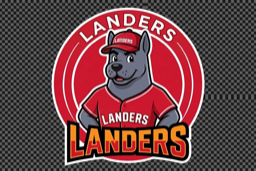
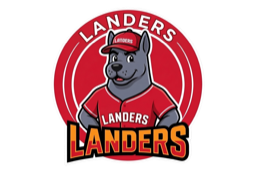
팀 로고 수정

diff --git a/ios/mobile/BaseHaptic/Screens/HomeScreen.swift b/ios/mobile/BaseHaptic/Screens/HomeScreen.swift
@@ -43,7 +43,7 @@ struct HomeScreen: View {
         VStack(alignment: .leading, spacing: 0) {
             HStack {
                 HStack(spacing: 12) {
-                    TeamLogo(team: selectedTeam, size: 56)
+                    TeamLogo(team: selectedTeam, size: 92)
                     VStack(alignment: .leading) {
                         Text("BaseHaptic Live")
                             .font(.system(size: 12))
@@ -228,11 +228,11 @@ private struct GameCard: View {
 
                 // Score rows
                 VStack(spacing: 12) {
-                    TeamScoreRow(team: game.awayTeamId, teamName: game.awayTeam, score: game.awayScore,
+                    TeamScoreRow(team: game.awayTeamId, teamName: game.awayTeamId.teamName, score: game.awayScore,
                                  isScheduled: isNotStartedStatus(game.status),
                                  isWinner: game.status == .finished && game.awayScore > game.homeScore,
                                  isMyTeam: game.isMyTeam)
-                    TeamScoreRow(team: game.homeTeamId, teamName: game.homeTeam, score: game.homeScore,
+                    TeamScoreRow(team: game.homeTeamId, teamName: game.homeTeamId.teamName, score: game.homeScore,
                                  isScheduled: isNotStartedStatus(game.status),
                                  isWinner: game.status == .finished && game.homeScore > game.awayScore,
                                  isMyTeam: game.isMyTeam)
@@ -327,7 +327,7 @@ private struct TeamScoreRow: View {
     var body: some View {
         HStack {
             HStack(spacing: 12) {
-                TeamLogo(team: team, size: 32)
+                TeamLogo(team: team, size: 56)
                 Text(teamName)
                     .font(.system(size: isMyTeam ? 18 : 16, weight: .medium))
                     .foregroundColor(isWinner ? .white : (isScheduled ? .white : AppColors.gray500))
@@ -355,18 +355,18 @@ private struct UpcomingGameCard: View {
                 .foregroundColor(AppColors.gray400)
 
             HStack {
-                Text(isMyTeamHome ? game.homeTeam : game.awayTeam)
+                Text(isMyTeamHome ? game.homeTeamId.teamName : game.awayTeamId.teamName)
                     .font(.system(size: 16, weight: .medium))
                     .foregroundColor(.white)
                 Text(" vs ")
                     .font(.system(size: 14))
                     .foregroundColor(AppColors.gray500)
-                Text(isMyTeamHome ? game.awayTeam : game.homeTeam)
+                Text(isMyTeamHome ? game.awayTeamId.teamName : game.homeTeamId.teamName)
                     .font(.system(size: 16, weight: .medium))
                     .foregroundColor(.white)
             }
 
-            Text(isMyTeamHome ? "\(game.homeTeam) 홈경기" : "\(game.homeTeam) 원정경기")
+            Text(isMyTeamHome ? "\(game.homeTeamId.teamName) 홈경기" : "\(game.homeTeamId.teamName) 원정경기")
                 .font(.system(size: 12))
                 .foregroundColor(AppColors.gray500)
         }

diff --git a/apps/mobile/app/src/main/java/com/basehaptic/mobile/ui/screens/HomeScreen.kt b/apps/mobile/app/src/main/java/com/basehaptic/mobile/ui/screens/HomeScreen.kt
@@ -189,7 +189,7 @@ fun HomeScreen(
                         verticalAlignment = Alignment.CenterVertically
                     ) {
                         Row(verticalAlignment = Alignment.CenterVertically) {
-                            TeamLogo(team = selectedTeam, size = 56.dp)
+                            TeamLogo(team = selectedTeam, size = 92.dp)
                             Spacer(modifier = Modifier.width(12.dp))
                             Column {
                                 Text(
@@ -391,13 +391,13 @@ private fun UpcomingGameCard(
 ) {
     val game = upcoming.game
     val isMyTeamHome = game.homeTeamId == selectedTeam
-    val myTeamName = if (isMyTeamHome) game.homeTeam else game.awayTeam
-    val opponentTeamName = if (isMyTeamHome) game.awayTeam else game.homeTeam
+    val myTeamName = if (isMyTeamHome) game.homeTeamId.teamName else game.awayTeamId.teamName
+    val opponentTeamName = if (isMyTeamHome) game.awayTeamId.teamName else game.homeTeamId.teamName
     val dateTimeText = formatUpcomingDateTime(upcoming.gameDate, game.time)
     val venueText = if (isMyTeamHome) {
-        "${game.homeTeam} 홈경기"
+        "${game.homeTeamId.teamName} 홈경기"
     } else {
-        "${game.homeTeam} 원정경기"
+        "${game.homeTeamId.teamName} 원정경기"
     }
 
     Surface(
@@ -644,7 +644,7 @@ private fun GameCard(
                 Column(verticalArrangement = Arrangement.spacedBy(12.dp)) {
                     TeamScoreRow(
                         team = game.awayTeamId,
-                        teamName = game.awayTeam,
+                        teamName = game.awayTeamId.teamName,
                         score = game.awayScore,
                         pitcher = game.awayPitcher,
                         isScheduled = isNotStartedStatus(game.status),
@@ -654,7 +654,7 @@ private fun GameCard(
 
                     TeamScoreRow(
                         team = game.homeTeamId,
-                        teamName = game.homeTeam,
+                        teamName = game.homeTeamId.teamName,
                         score = game.homeScore,
                         pitcher = game.homePitcher,
                         isScheduled = isNotStartedStatus(game.status),
@@ -686,7 +686,7 @@ private fun TeamScoreRow(
             modifier = Modifier.weight(1f),
             verticalAlignment = Alignment.CenterVertically
         ) {
-            TeamLogo(team = team, size = 32.dp)
+            TeamLogo(team = team, size = 56.dp)
             Spacer(modifier = Modifier.width(12.dp))
             Column {
                 Text(

diff --git a/apps/mobile/app/src/main/java/com/basehaptic/mobile/ui/components/TeamLogo.kt b/apps/mobile/app/src/main/java/com/basehaptic/mobile/ui/components/TeamLogo.kt
@@ -40,23 +40,21 @@ fun TeamLogo(
         Team.NONE -> null
     }
 
-    Box(
-        modifier = modifier
-            .size(size)
-            .clip(CircleShape)
-            .background(team.color),
-        contentAlignment = Alignment.Center
-    ) {
-        if (logoResource != null) {
-            Image(
-                painter = painterResource(id = logoResource),
-                contentDescription = "${team.teamName} 로고",
-                modifier = Modifier
-                    .size(size * 0.8f)
-                    .clip(CircleShape),
-                contentScale = ContentScale.Fit
-            )
-        } else {
+    if (logoResource != null) {
+        Image(
+            painter = painterResource(id = logoResource),
+            contentDescription = "${team.teamName} 로고",
+            modifier = modifier.size(size),
+            contentScale = ContentScale.Fit
+        )
+    } else {
+        Box(
+            modifier = modifier
+                .size(size)
+                .clip(CircleShape)
+                .background(team.color),
+            contentAlignment = Alignment.Center
+        ) {
             Text(
                 text = "?",
                 color = Color.White,

diff --git a/ios/mobile/BaseHaptic/Screens/LiveGameScreen.swift b/ios/mobile/BaseHaptic/Screens/LiveGameScreen.swift
@@ -203,9 +203,9 @@ private struct ScoreboardCard: View {
             }
 
             Spacer().frame(height: 14)
-            LiveTeamScoreRow(teamName: state.awayTeam, team: state.awayTeamId, score: state.awayScore)
+            LiveTeamScoreRow(teamName: state.awayTeamId.teamName, team: state.awayTeamId, score: state.awayScore)
             Spacer().frame(height: 10)
-            LiveTeamScoreRow(teamName: state.homeTeam, team: state.homeTeamId, score: state.homeScore)
+            LiveTeamScoreRow(teamName: state.homeTeamId.teamName, team: state.homeTeamId, score: state.homeScore)
 
             Spacer().frame(height: 12)
             HStack(spacing: 8) {
@@ -263,7 +263,7 @@ private struct LiveTeamScoreRow: View {
     var body: some View {
         HStack {
             HStack(spacing: 10) {
-                TeamLogo(team: team, size: 28)
+                TeamLogo(team: team, size: 52)
                 Text(teamName)
                     .font(.system(size: 16, weight: .medium))
                     .foregroundColor(.white)

diff --git a/ios/mobile/BaseHaptic/Components/TeamLogo.swift b/ios/mobile/BaseHaptic/Components/TeamLogo.swift
@@ -6,18 +6,16 @@ struct TeamLogo: View {
     var size: CGFloat = 40
 
     var body: some View {
-        ZStack {
-            Circle()
-                .fill(team.color)
+        if let imageName = teamImageName, UIImage(named: imageName) != nil {
+            Image(imageName)
+                .resizable()
+                .scaledToFit()
                 .frame(width: size, height: size)
-
-            if let imageName = teamImageName, UIImage(named: imageName) != nil {
-                Image(imageName)
-                    .resizable()
-                    .scaledToFit()
-                    .frame(width: size * 0.8, height: size * 0.8)
-                    .clipShape(Circle())
-            } else {
+        } else {
+            ZStack {
+                Circle()
+                    .fill(team.color)
+                    .frame(width: size, height: size)
                 Text(teamInitial)
                     .font(.system(size: size * 0.4, weight: .bold))
                     .foregroundColor(.white)

diff --git a/apps/mobile/app/src/main/java/com/basehaptic/mobile/ui/screens/LiveGameScreen.kt b/apps/mobile/app/src/main/java/com/basehaptic/mobile/ui/screens/LiveGameScreen.kt
@@ -300,13 +300,13 @@ private fun ScoreboardCard(
 
             TeamScoreRow(
                 team = state.awayTeamId,
-                teamName = state.awayTeam,
+                teamName = state.awayTeamId.teamName,
                 score = state.awayScore
             )
             Spacer(modifier = Modifier.height(10.dp))
             TeamScoreRow(
                 team = state.homeTeamId,
-                teamName = state.homeTeam,
+                teamName = state.homeTeamId.teamName,
                 score = state.homeScore
             )
 
@@ -359,7 +359,7 @@ private fun TeamScoreRow(
         verticalAlignment = Alignment.CenterVertically
     ) {
         Row(verticalAlignment = Alignment.CenterVertically) {
-            TeamLogo(team = team, size = 28.dp)
+            TeamLogo(team = team, size = 52.dp)
             Spacer(modifier = Modifier.size(10.dp))
             Text(
                 text = teamName,

diff --git a/ios/mobile/BaseHaptic/Screens/SettingsScreen.swift b/ios/mobile/BaseHaptic/Screens/SettingsScreen.swift
@@ -39,7 +39,7 @@ struct SettingsScreen: View {
                                 showTeamPicker = false
                             } label: {
                                 HStack(spacing: 12) {
-                                    TeamLogo(team: team, size: 32)
+                                    TeamLogo(team: team, size: 56)
                                     Text(team.teamName)
                                         .font(.system(size: 15, weight: team == selectedTeam ? .bold : .regular))
                                         .foregroundColor(team == selectedTeam ? .white : AppColors.gray300)

diff --git a/apps/mobile/app/src/main/java/com/basehaptic/mobile/ui/screens/SettingsScreen.kt b/apps/mobile/app/src/main/java/com/basehaptic/mobile/ui/screens/SettingsScreen.kt
@@ -141,7 +141,7 @@ fun SettingsScreen(
                                         .padding(12.dp),
                                     verticalAlignment = Alignment.CenterVertically
                                 ) {
-                                    TeamLogo(team = team, size = 32.dp)
+                                    TeamLogo(team = team, size = 56.dp)
                                     Spacer(modifier = Modifier.width(12.dp))
                                     Text(
                                         text = team.teamName,

diff --git a/apps/mobile/app/src/main/java/com/basehaptic/mobile/ui/screens/ThemeStoreScreen.kt b/apps/mobile/app/src/main/java/com/basehaptic/mobile/ui/screens/ThemeStoreScreen.kt
@@ -148,7 +148,7 @@ private fun ThemeStoreItemCard(
                 verticalAlignment = Alignment.CenterVertically
             ) {
                 Row(verticalAlignment = Alignment.CenterVertically) {
-                    TeamLogo(team = item.theme.teamId, size = 36.dp)
+                    TeamLogo(team = item.theme.teamId, size = 60.dp)
                     Spacer(modifier = Modifier.size(10.dp))
                     Column {
                         Text(

diff --git a/ios/mobile/BaseHaptic/Screens/OnboardingScreen.swift b/ios/mobile/BaseHaptic/Screens/OnboardingScreen.swift
@@ -222,7 +222,7 @@ private struct TeamSelectionItem: View {
     var body: some View {
         Button(action: onTap) {
             HStack {
-                TeamLogo(team: team, size: 40)
+                TeamLogo(team: team, size: 72)
                     .padding(.trailing, 4)
 
                 Text(team.teamName)

diff --git a/apps/mobile/app/src/main/java/com/basehaptic/mobile/ui/screens/OnboardingScreen.kt b/apps/mobile/app/src/main/java/com/basehaptic/mobile/ui/screens/OnboardingScreen.kt
@@ -332,7 +332,7 @@ private fun TeamSelectionItem(
             .padding(16.dp),
         verticalAlignment = Alignment.CenterVertically
     ) {
-        TeamLogo(team = team, size = 40.dp)
+        TeamLogo(team = team, size = 72.dp)
         Spacer(modifier = Modifier.width(12.dp))
 
         Text(
